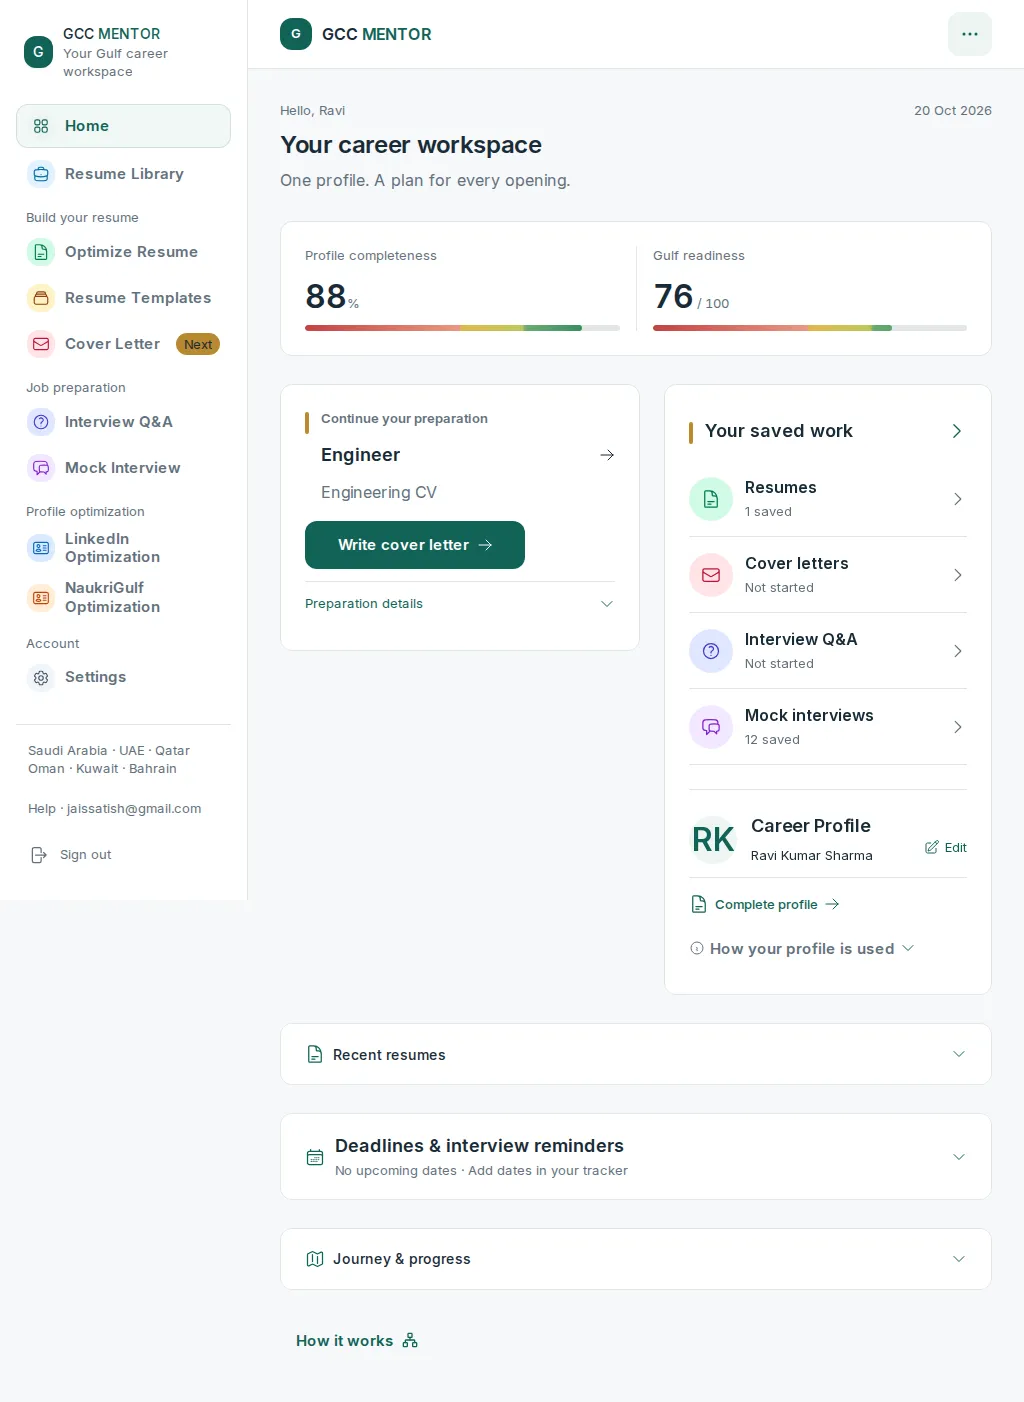
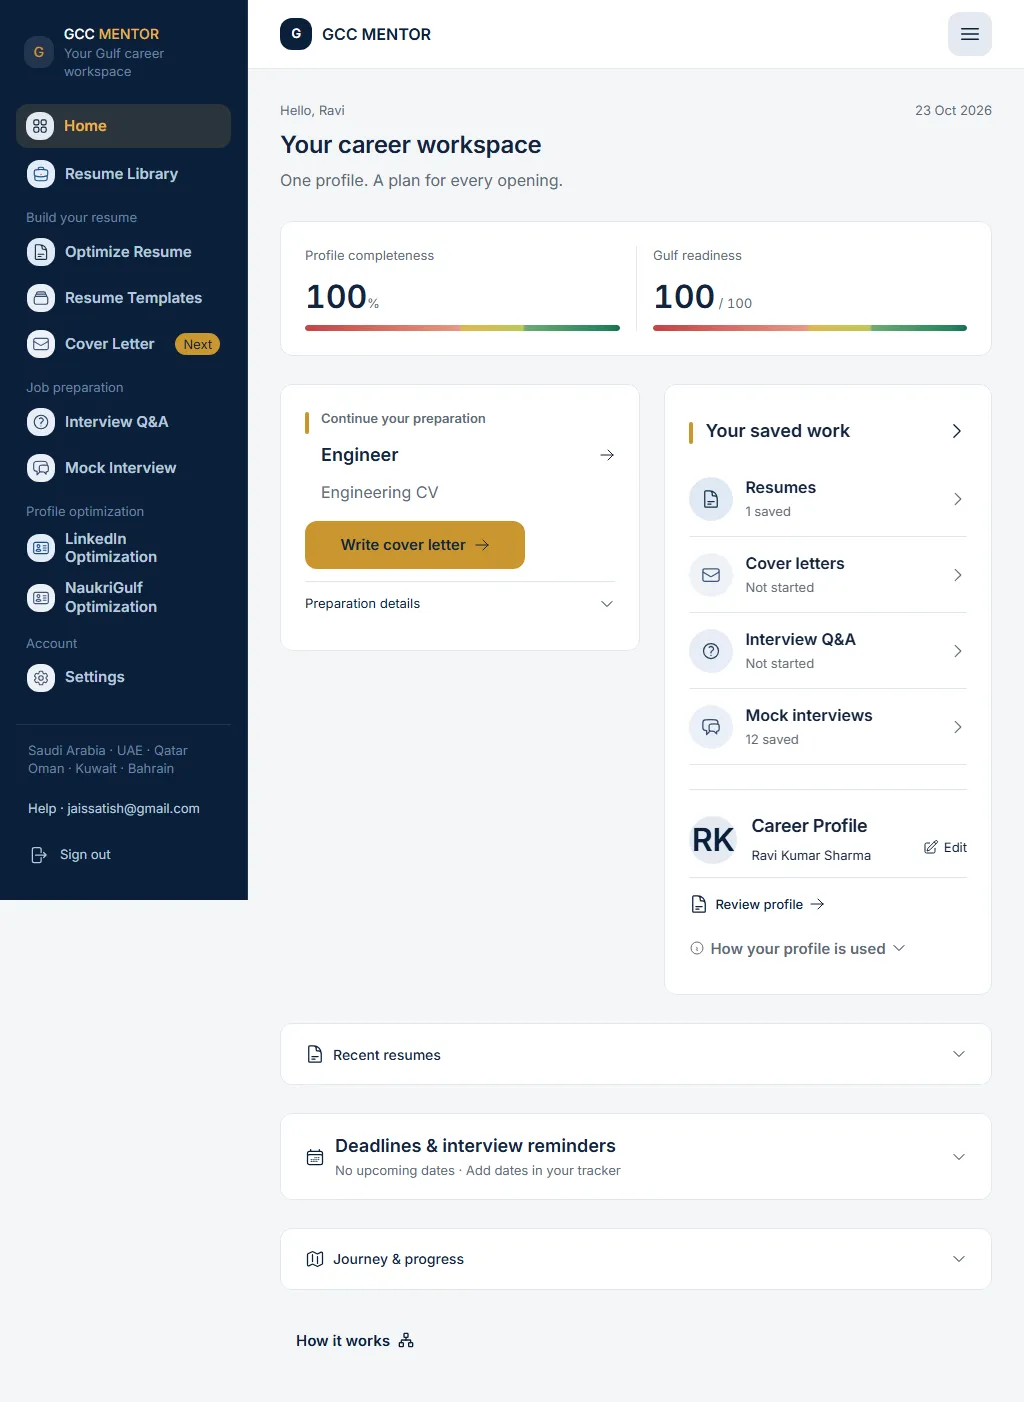
feat(design): Gulf premium pass — navy hero, serif display voice, gold halo CTA (#73)
* feat(design): Gulf premium pass — navy hero band, serif display voice, gold halo CTA

Design-only pass rebuilt on current origin/main (previous branch was stale by 63 commits).

- App-wide identity remap: Blueprint blue -> deep navy brand (#0B1F3A), gold
  accent (#C9962E), warm ivory canvas, sand hairlines (ui-system.css)
- Landing: navy hero band with radial gold/steel glows + dune-wave SVG divider
  flowing into the ivory canvas (aria-hidden decorative)
- Serif display voice: Instrument Serif activated (was loaded-but-dormant,
  now preloaded) on hero title, section titles, founder/about title and final
  band title — Inter stays the body/UI face
- Display scale: hero clamp 42->68px, section titles 30->42px
- Gold halo CTA: hover ring + lift, ink-on-gold fill (6.7:1 contrast, documented)
- Ghost CTA on navy becomes a light outline variant
- Section air: landing section space clamp(72px,8vw,128px)
- Country cards wrapped in Reveal with 40ms stagger (six cards, max 200ms)
- Geometry: control radius 10->12px, card resting/hover shadows layered

* fix(design): replace raw typography values with central tokens

The typography governance check (verify-typography-source.mjs) enforces that
font-size, font-weight, line-height and letter-spacing in UI components must
be declared via central tokens rather than raw values.

Replaced raw declarations with the central typography tokens:
- letter-spacing: .08em -> var(--ui-tracking)
- font-weight: 400 -> var(--ui-weight-regular)
[…]

diff --git a/components/landing-v3/premium.module.css b/components/landing-v3/premium.module.css
@@ -9,7 +9,13 @@
   --lp-soft: var(--ui-brand-soft);
   --lp-width: 1200px;
   --lp-gutter: clamp(16px, 4vw, 48px);
-  --lp-section-space: clamp(40px, 5vw, 64px);
+  /* Premium Gulf pass (2026-11-04): generous section air; serif display voice
+     via the preloaded Instrument Serif face; navy hero band with a dune-wave
+     divider flowing into the ivory canvas below. */
+  --lp-section-space: clamp(64px, 7vw, 112px);
+  --lp-serif: var(--font-instrument-serif, 'Instrument Serif'), 'Times New Roman', serif;
+  --lp-hero-size: clamp(2.625rem, 5.2vw, 4.25rem);
+  --lp-display-size: clamp(1.875rem, 3.2vw, 2.625rem);
   --brand: var(--lp-brand);
   --deep: var(--lp-ink);
   --brand-soft: var(--ui-brand-soft);
@@ -50,22 +56,39 @@
 .system .menuNav>a:hover { background: var(--lp-soft); color: var(--lp-brand); }
 .system .menuNav>a:last-child { margin-top: 6px; justify-content: center; background: var(--lp-brand); color: #fff; }
 
-.heroNavy { position: relative; padding-block: clamp(24px, 3vw, 40px) 28px; background: var(--ui-canvas); }
+.heroNavy { position: relative; overflow: hidden; padding-block: clamp(40px, 5vw, 72px) clamp(44px, 5vw, 68px); background: linear-gradient(150deg, #0B1F3A 0%, #123049 60%, #1A3D63 100%); color: #FAF7F0; border-radius: 0 0 28px 28px; }
+.heroNavy::before { content: ''; position: absolute; right: -120px; top: -80px; width: min(420px, 50vw); aspect-ratio: 1; border-radius: 50%; background: radial-gradient(circle, rgba(201,150,46,.18) 0%, transparent 70%); pointer-events: none; }
+.heroNavy::after { content: ''; position: absolute; left: -140px; bottom: -60px; width: min(360px, 44vw); aspect-ratio: 1; border-radius: 50%; background: radial-gradient(circle, rgba(90,130,180,.14) 0%, transparent 70%); pointer-events: none; }
+.heroWave { position: absolute; left: 0; right: 0; bottom: -1px; width: 100%; height: clamp(28px, 4vw, 56px); pointer-events: none; z-index: 1; }
+.heroWave svg { display: block; width: 100%; height: 100%; }
+.heroInner { position: relative; z-index: 2; }
 .heroInner { display: grid; gap: 28px; align-items: center; }
 .heroCopy,.heroVisual { min-width: 0; }
-.kickerGold { display: inline-flex; align-items: center; gap: 8px; color: var(--ui-brand-hover); font-size: var(--ui-caption-size); font-weight: var(--ui-weight-heading); letter-spacing: var(--ui-tracking); text-transform: uppercase; line-height: var(--ui-body-line); }
-.kickerGold::before { content: ''; width: 6px; height: 6px; flex: none; border-radius: 50%; background: currentColor; }
-.heroTitle { margin: 12px 0 16px; color: var(--lp-ink); max-width: 17ch; text-wrap: balance; }
-.heroTitle span { background:linear-gradient(90deg,var(--lp-brand) 0%,var(--ui-accent-ink) 100%); color:transparent; background-clip:text; -webkit-background-clip:text; }
-.heroSub { max-width: 44ch; margin: 0; color: var(--lp-muted); font-size: var(--ui-body-size); line-height: var(--ui-body-line); }
+.kickerGold { display: inline-flex; align-items: center; gap: 10px; color: var(--ui-brand-hover); font-size: var(--ui-caption-size); font-weight: var(--ui-weight-title); letter-spacing: var(--ui-tracking); text-transform: uppercase; line-height: var(--ui-body-line); }
+.kickerGold::before { content: ''; width: 24px; height: 3px; flex: none; border-radius: 2px; background: currentColor; }
+.heroNavy .kickerGold { color: #E3C77E; }
+.heroTitle { margin: 14px 0 18px; font-family: var(--lp-serif); font-weight: var(--ui-weight-regular); font-size: var(--lp-hero-size); line-height: var(--ui-hero-line); letter-spacing: 0; color: var(--lp-ink); max-width: 20ch; text-wrap: balance; }
+.heroTitle span { color: var(--ui-accent-ink); }
+.heroNavy .heroTitle { color: #FAF7F0; }
+.heroNavy .heroTitle span { color: #E3C77E; }
+.heroSub { max-width: 44ch; margin: 0; color: var(--lp-muted); font-size: var(--ui-lead-size, 1.0625rem); line-height: var(--ui-lead-line); }
 .heroCtas { display: flex; flex-direction: column; gap: var(--ui-control-gap); align-items: stretch; margin-top: 20px; }
 .goldCta,.ghostCta,.whiteCta,.btnNavyOutline { display: inline-flex; align-items: center; justify-content: center; gap: 10px; min-height: var(--ui-control-height); padding: var(--ui-control-padding-y) 16px; border: 1px solid transparent; border-radius: var(--ui-control-radius); font-size: var(--ui-helper-size); line-height: var(--ui-body-line); font-weight: var(--ui-weight-heading); text-align: center; text-decoration: none; }
-.goldCta,.whiteCta { color: #fff; background: var(--lp-brand); border-color: var(--lp-brand); }
-.goldCta:hover,.whiteCta:hover { background: var(--lp-brand-hover); color: #fff; }
+/* Primary action: the one gold CTA per screen — gold fill, ink text (6.7:1),
+   and a hover halo that lifts the button with a soft gold ring. */
+.goldCta { color: var(--ui-ink); background: var(--ui-accent); border-color: var(--ui-accent-ink); box-shadow: 0 1px 2px rgb(11 31 58 / .12); transition: transform 160ms ease, box-shadow 160ms ease, background 160ms ease; }
+.goldCta:hover { background: #D4A63A; color: var(--ui-ink); box-shadow: 0 10px 28px -8px rgba(201,150,46,.55), 0 0 0 4px rgba(201,150,46,.16); transform: translateY(-1px); }
+.whiteCta { color: #fff; background: var(--lp-brand); border-color: var(--lp-brand); }
+.whiteCta:hover { background: var(--lp-brand-hover); color: #fff; }
 .ghostCta,.btnNavyOutline { color: var(--lp-ink); background: var(--ui-surface); border-color: var(--ui-line-strong); }
 .ghostCta:hover,.btnNavyOutline:hover { background: var(--lp-soft); border-color: var(--lp-brand); color: var(--lp-brand); }
-.freeNote { display: flex; align-items: center; gap: 7px; margin: 14px 0 0; color: var(--lp-muted); font-size: var(--ui-caption-size); line-height: var(--ui-body-line); }
+/* On the navy band the ghost becomes a light outline and the gold keeps its halo. */
+.heroNavy .ghostCta { color: #FAF7F0; background: rgb(255 255 255 / .04); border-color: rgb(250 247 240 / .38); }
+.heroNavy .ghostCta:hover { background: rgb(255 255 255 / .1); border-color: #E3C77E; color: #E3C77E; }
+.freeNote { display: flex; align-items: center; gap: 7px; margin: 14px 0 0; color: var(--lp-muted); font-size: var(--ui-caption-size); }
 .freeNote svg { flex: none; color: var(--lp-brand); }
+.heroNavy .freeNote { color: rgb(250 247 240 / .68); }
+.heroNavy .freeNote svg { color: #E3C77E; }
 .heroVisual { position: relative; overflow: hidden; padding: 18px 0 14px; border: 1px solid var(--lp-line); border-radius: var(--ui-card-radius); background: var(--ui-surface); box-shadow: var(--ui-card-shadow); }
 .visualLabel { display: flex; align-items: center; justify-content: space-between; gap: 12px; padding-inline: 20px; color: var(--lp-muted); font-size: var(--ui-caption-size); }
 .visualLabel strong { color: var(--lp-ink); font-size: var(--ui-helper-size); font-weight: var(--ui-weight-heading); }
@@ -78,6 +101,8 @@
 .statRow { display: grid; grid-template-columns: repeat(3, minmax(0, 1fr)); gap: 16px; margin: 24px 0 0; padding: 16px 0 0; border-top: 1px solid var(--lp-line); }
 .statItem dt,.statItem dd { margin: 0; }
 .statItem b { display: block; color: var(--lp-ink); font-size: var(--ui-card-title-size); font-weight: var(--ui-weight-heading); line-height: var(--ui-label-line); }
+/* Hero stat numbers carry the serif display voice on the navy band. */
+.heroNavy .statItem b { font-family: var(--lp-serif); font-weight: var(--ui-weight-regular); font-size: var(--ui-stat-size); line-height: var(--ui-heading-line); color: #E3C77E; }
 .statItem dd { margin-top: 4px; color: var(--lp-muted); font-size: var(--ui-caption-size); line-height: var(--ui-body-line); }
 
 .countryBand { padding-block: 32px 40px; background: var(--ui-surface); }
@@ -90,8 +115,8 @@
 .section { padding-block: var(--lp-section-space); background: var(--ui-surface); }
 .softSection { background: var(--lp-soft); border-top: 1px solid var(--lp-line); }
 .sectionHead { max-width: 650px; margin-bottom: 24px; }
-.sectionTitle { margin: 12px 0 14px; color: var(--lp-ink); text-wrap: balance; }
-.sectionTitle span { color: var(--lp-brand); }
+.sectionTitle { margin: 12px 0 14px; font-family: var(--lp-serif); font-weight: var(--ui-weight-regular); font-size: var(--lp-display-size); line-height: var(--ui-heading-line); color: var(--lp-ink); text-wrap: balance; }
+.sectionTitle span { color: var(--ui-accent-ink); }
 .sectionLead { max-width: 54ch; margin: 0; color: var(--lp-muted); font-size: var(--ui-body-size); line-height: var(--ui-body-line); }
 .sectionHeadCenter { text-align: center; margin-inline: auto; }
 .sectionHeadCenter .sectionLead { margin-inline: auto; }
@@ -119,8 +144,8 @@
 .navyBand { padding-block: 0; color: var(--lp-ink); }
 .founderGrid { display: grid; gap: 32px; }
 .founderColumn { min-width: 0; }
-.navyTitle { margin: 12px 0 14px; color: var(--lp-ink); text-wrap: balance; }
-.navyLead { margin: 0 0 24px; max-width: 52ch; color: var(--lp-muted); line-height: var(--ui-body-line); }
+.navyTitle { margin: 12px 0 14px; font-family: var(--lp-serif); font-weight: var(--ui-weight-regular); font-size: var(--lp-display-size); line-height: var(--ui-heading-line); color: var(--lp-ink); text-wrap: balance; }
+.navyLead { margin: 0 0 24px; max-width: 52ch; color: var(--lp-muted); line-height: var(--ui-lead-line); }
 .founderBox { display: flex; align-items: flex-start; gap: 16px; padding-top: 24px; border-top: 1px solid var(--lp-line); }
 .monogram { display: grid; place-items: center; width: 52px; height: 52px; flex: none; border-radius: 12px; background: var(--lp-soft); color: var(--lp-brand); font-size: var(--ui-card-title-size); font-weight: var(--ui-weight-heading); }
 .founderBox h3 { margin: 0; color: var(--lp-ink); font-size: var(--ui-card-title-size); font-weight: var(--ui-weight-heading); }
@@ -152,8 +177,8 @@
 .journeyGrid h3 { margin: 0 0 8px; font-size: var(--ui-card-title-size); font-weight: var(--ui-weight-heading); color: var(--lp-ink); }
 .journeyGrid p { padding: 0; font-size: var(--ui-helper-size); line-height: var(--ui-body-line); }
 .finalBand { padding-block: var(--lp-section-space); border-block: 1px solid var(--lp-line); text-align: center; background: var(--lp-soft); }
-.finalTitle { max-width: 22ch; margin: 12px auto 16px; color: var(--lp-ink); text-wrap: balance; }
-.finalLead { max-width: 48ch; margin: 0 auto 24px; color: var(--lp-muted); line-height: var(--ui-body-line); }
+.finalTitle { max-width: 22ch; margin: 12px auto 16px; font-family: var(--lp-serif); font-weight: var(--ui-weight-regular); font-size: var(--lp-display-size); line-height: var(--ui-heading-line); color: var(--lp-ink); text-wrap: balance; }
+.finalLead { max-width: 48ch; margin: 0 auto 24px; color: var(--lp-muted); line-height: var(--ui-lead-line); }
 .finalSmall { display: block; margin-top: 18px; color: var(--lp-muted); font-size: var(--ui-caption-size); line-height: var(--ui-body-line); }
 .footer { padding-block: 40px 24px; background: var(--ui-surface); color: var(--lp-ink); }
 .footerGrid { display: grid; gap: 32px; }

diff --git a/app/ui-system.css b/app/ui-system.css
@@ -1,4 +1,5 @@
-/* THEME-CONSISTENCY-002 — 1 November 2026. Shared light surfaces and blue actions.
+/* Gulf premium identity — 4 Nov 2026. Warm ivory neutrals, deep navy brand,
+   gold accent. Replaces the Blueprint blue era on the shared surface system.
    SINGLE UI CONFIGURATION. Edit tokens here; do not add page-specific type scales.
    Code-owned only: no public settings, database storage or user preference UI. */
 :root {
@@ -11,25 +12,28 @@
   --ui-page-gutter: 16px;
   --ui-card-padding: 16px;
   --ui-card-radius: 16px;
-  --ui-card-shadow: 0 4px 18px rgb(24 37 58 / .04);
-  --ui-keyword-rgb: 3 105 133;
-  --ui-keyword-soft-rgb: 231 246 250;
-  --ui-info-rgb: 3 105 133;
-  --ui-info-soft-rgb: 231 246 250;
-  /* Semantic palette: RGB triplets allow shared opacity utilities. */
-  --ui-canvas-rgb: 247 249 252;
+  --ui-card-shadow: 0 1px 2px rgb(11 31 58 / .05), 0 10px 28px rgb(11 31 58 / .07);
+  --ui-keyword-rgb: 138 97 20;
+  --ui-keyword-soft-rgb: 247 239 221;
+  --ui-info-rgb: 11 74 156;
+  --ui-info-soft-rgb: 233 241 252;
+  /* Semantic palette: RGB triplets allow shared opacity utilities.
+     Gulf premium mapping: navy brand, gold accent, warm ivory ground.
+     Contrast anchors: ink on canvas 12.9 · white on brand 13.2 ·
+     ink on gold 6.7 · gold-ink on white 5.2 · muted on canvas 5.4. */
+  --ui-canvas-rgb: 247 244 236;
   --ui-surface-rgb: 255 255 255;
-  --ui-ink-rgb: 24 37 58;
-  --ui-ink-soft-rgb: 65 81 103;
-  --ui-ink-muted-rgb: 83 99 122;
-  --ui-brand-rgb: 37 99 235;
-  --ui-brand-hover-rgb: 29 78 216;
-  --ui-brand-soft-rgb: 235 242 255;
-  --ui-line-rgb: 217 226 237;
-  --ui-line-strong-rgb: 156 173 195;
-  --ui-accent-rgb: 3 105 133;
-  --ui-accent-ink-rgb: 3 105 133;
-  --ui-accent-soft-rgb: 231 246 250;
+  --ui-ink-rgb: 20 36 61;
+  --ui-ink-soft-rgb: 51 67 91;
+  --ui-ink-muted-rgb: 84 94 108;
+  --ui-brand-rgb: 11 31 58;
+  --ui-brand-hover-rgb: 18 48 79;
+  --ui-brand-soft-rgb: 236 232 222;
+  --ui-line-rgb: 229 224 214;
+  --ui-line-strong-rgb: 197 190 175;
+  --ui-accent-rgb: 201 150 46;
+  --ui-accent-ink-rgb: 138 97 20;
+  --ui-accent-soft-rgb: 247 239 221;
   --ui-success-rgb: 21 112 65;
   --ui-success-soft-rgb: 234 248 240;
   --ui-error-rgb: 180 35 50;
@@ -51,7 +55,7 @@
   --ui-hero-gradient: linear-gradient(135deg, var(--ui-surface) 0%, var(--ui-brand-soft) 100%);
   --ui-hero-label: var(--ui-brand);
   --ui-hero-copy: var(--ui-ink-soft);
-  --ui-control-radius: 10px;
+  --ui-control-radius: 12px;
   --ui-hero-radius: 16px;
   --ui-control-height: 44px;
   --ui-control-padding-y: 9px;
@@ -62,15 +66,15 @@
   --ui-document-width: 1240px;
   --ui-page-top: 24px;
   --ui-page-gap: 20px;
-  --ui-section-gap: 16px;
+  --ui-section-gap: 20px;
   --ui-control-gap: 8px;
-  --ui-section-padding: 48px;
+  --ui-section-padding: 56px;
   --ui-empty-padding: 28px;
   --ui-marketing-gutter: 16px;
   --ui-marketing-width: 1240px;
   --ui-header-gap: 8px;
   --ui-list-gap: 12px;
-  --ui-card-hover-shadow: 0 3px 12px rgb(20 24 28 / .05);
+  --ui-card-hover-shadow: 0 2px 4px rgb(11 31 58 / .06), 0 18px 44px rgb(11 31 58 / .13);
   --ui-nav-profile-bg: var(--ui-brand-soft); --ui-nav-profile-ink: var(--ui-brand);
   --ui-nav-library-bg: var(--ui-brand-soft); --ui-nav-library-ink: var(--ui-brand);
   --ui-nav-templates-bg: var(--ui-brand-soft); --ui-nav-templates-ink: var(--ui-brand);

diff --git a/app/page.tsx b/app/page.tsx
@@ -2,6 +2,7 @@ import type { Metadata } from 'next'
 import Link from 'next/link'
 import { ArrowRight, ArrowUpRight, BookOpen, Check, ClipboardCheck, FileText, FolderOpen, Mail, Mic, ShieldCheck, Target } from 'lucide-react'
 import { AuthLinkCatcher } from '@/components/auth/AuthLinkCatcher'
+import { Reveal } from '@/components/ui/Reveal'
 import { PremiumNav } from '@/components/landing-v3/PremiumNav'
 import { LandingFooter } from '@/components/landing-v3/LandingFooter'
 import { DocumentOrbit, GccGlobe } from '@/components/landing-v3/lazy'
@@ -126,6 +127,13 @@ export default function Home() {
               <div className={s.visualFoot}><Link href="/templates">Find your resume style <ArrowRight size={16} aria-hidden="true" /></Link></div>
             </div>
           </div>
+          {/* Dune-wave divider — a static decorative curve flowing the navy band
+              into the ivory canvas below (aria-hidden; not content). */}
+          <div className={s.heroWave} aria-hidden="true">
+            <svg viewBox="0 0 1440 56" preserveAspectRatio="none" focusable="false">
+              <path d="M0,32 C240,8 480,54 720,34 C960,8 1200,50 1440,26 L1440,56 L0,56 Z" fill="#F7F4EC" />
+            </svg>
+          </div>
         </section>
 
         {/* ── Country picks · six GCC cards with a reason + hover lift ── */}
@@ -134,14 +142,16 @@ export default function Home() {
             <div className={s.sectionHead}>
               <span className={s.kickerGold}>Prepared for all six Gulf markets</span>
             </div>
-            <ul className={s.countryGrid}>
-              {COUNTRIES.map(country => (
-                <li key={country.name} className={s.countryCard}>
-                  <span className={s.countryFlag} aria-hidden="true">{country.flag}</span>
-                  <b className={s.countryName}>{country.name}</b>
-                </li>
+            <div className={s.countryGrid}>
+              {COUNTRIES.map((country, index) => (
+                <Reveal key={country.name} delay={index * 40}>
+                  <div className={s.countryCard}>
+                    <span className={s.countryFlag} aria-hidden="true">{country.flag}</span>
+                    <b className={s.countryName}>{country.name}</b>
+                  </div>
+                </Reveal>
               ))}
-            </ul>
+            </div>
           </div>
         </section>
 

diff --git a/scripts/verify-universal-theme.ts b/scripts/verify-universal-theme.ts
@@ -15,8 +15,8 @@ const typography = parse(readFileSync('app/typography.css', 'utf8'))
 const rootTokens = new Map<string,string>()
 theme.walkRules(':root',rule=>rule.walkDecls(decl=>{if(decl.prop.startsWith('--ui-'))rootTokens.set(decl.prop,decl.value)}))
 assert.equal(rootTokens.get('--ui-surface-rgb'),'255 255 255','One central white working surface')
-assert.equal(rootTokens.get('--ui-canvas-rgb'),'247 249 252','One central pale canvas')
-assert.equal(rootTokens.get('--ui-brand-rgb'),'37 99 235','One central blue action palette')
+assert.equal(rootTokens.get('--ui-canvas-rgb'),'247 244 236','One central warm ivory canvas (Gulf premium, 2026-11-04)')
+assert.equal(rootTokens.get('--ui-brand-rgb'),'11 31 58','One central deep navy action palette (Gulf premium, 2026-11-04)')
 const reviewTheme=parse(readFileSync('app/resume-review.css','utf8'))
 reviewTheme.walkDecls(decl=>assert.ok(!/^--ui-(?:canvas|surface|ink|brand|line|accent|success|error)(?:-|$)/.test(decl.prop),'Review must consume the shared theme instead of redeclaring palette roles'))
 const declared = new Set<string>()

diff --git a/app/layout.tsx b/app/layout.tsx
@@ -16,10 +16,10 @@ const instrumentSerif = Instrument_Serif({
   weight: '400',
   variable: '--font-instrument-serif',
   display: 'swap',
-  // Not preloaded (2026-09-30): no class in the app uses this family any more,
-  // so preloading it made every phone download a font it never draws. It stays
-  // declared as a fallback; it would still load, with swap, if something used it.
-  preload: false,
+  // Preloaded (2026-11-04): the Gulf premium pass renders display headings
+  // (hero, section titles) in this serif, so every phone needs the face on
+  // first paint. One weight-400 file — small payload, big identity return.
+  preload: true,
 })
 
 const plexMono = IBM_Plex_Mono({
